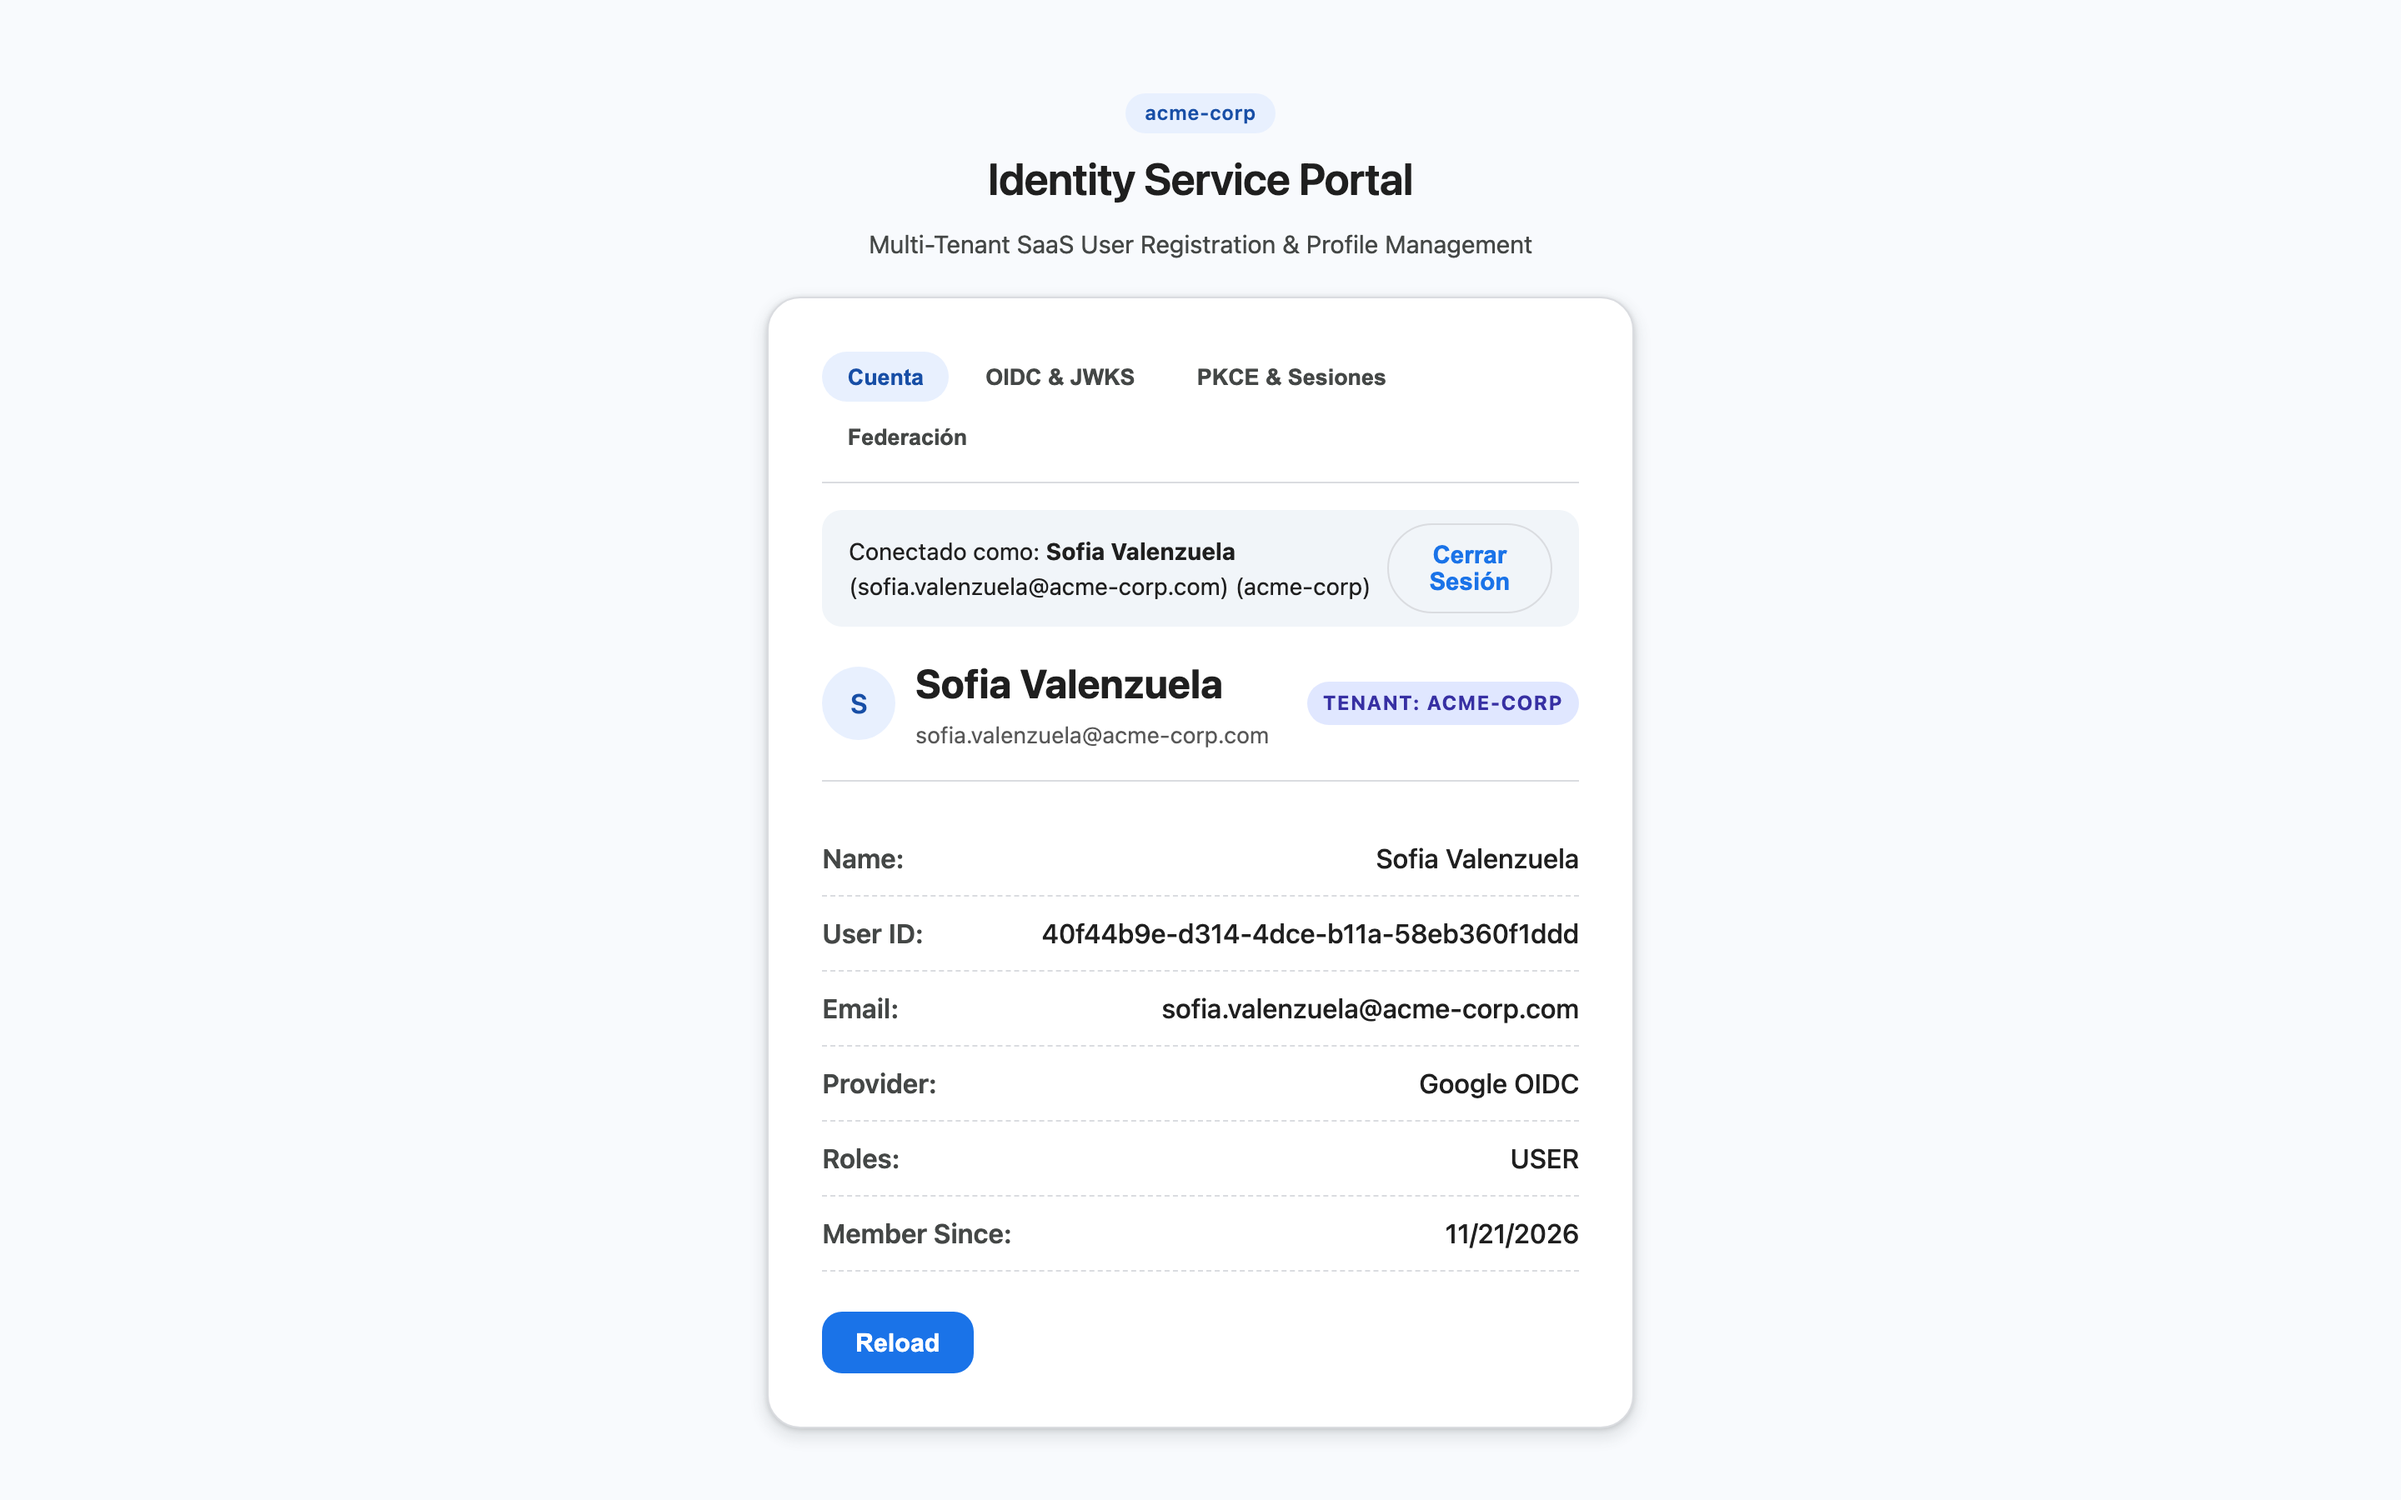
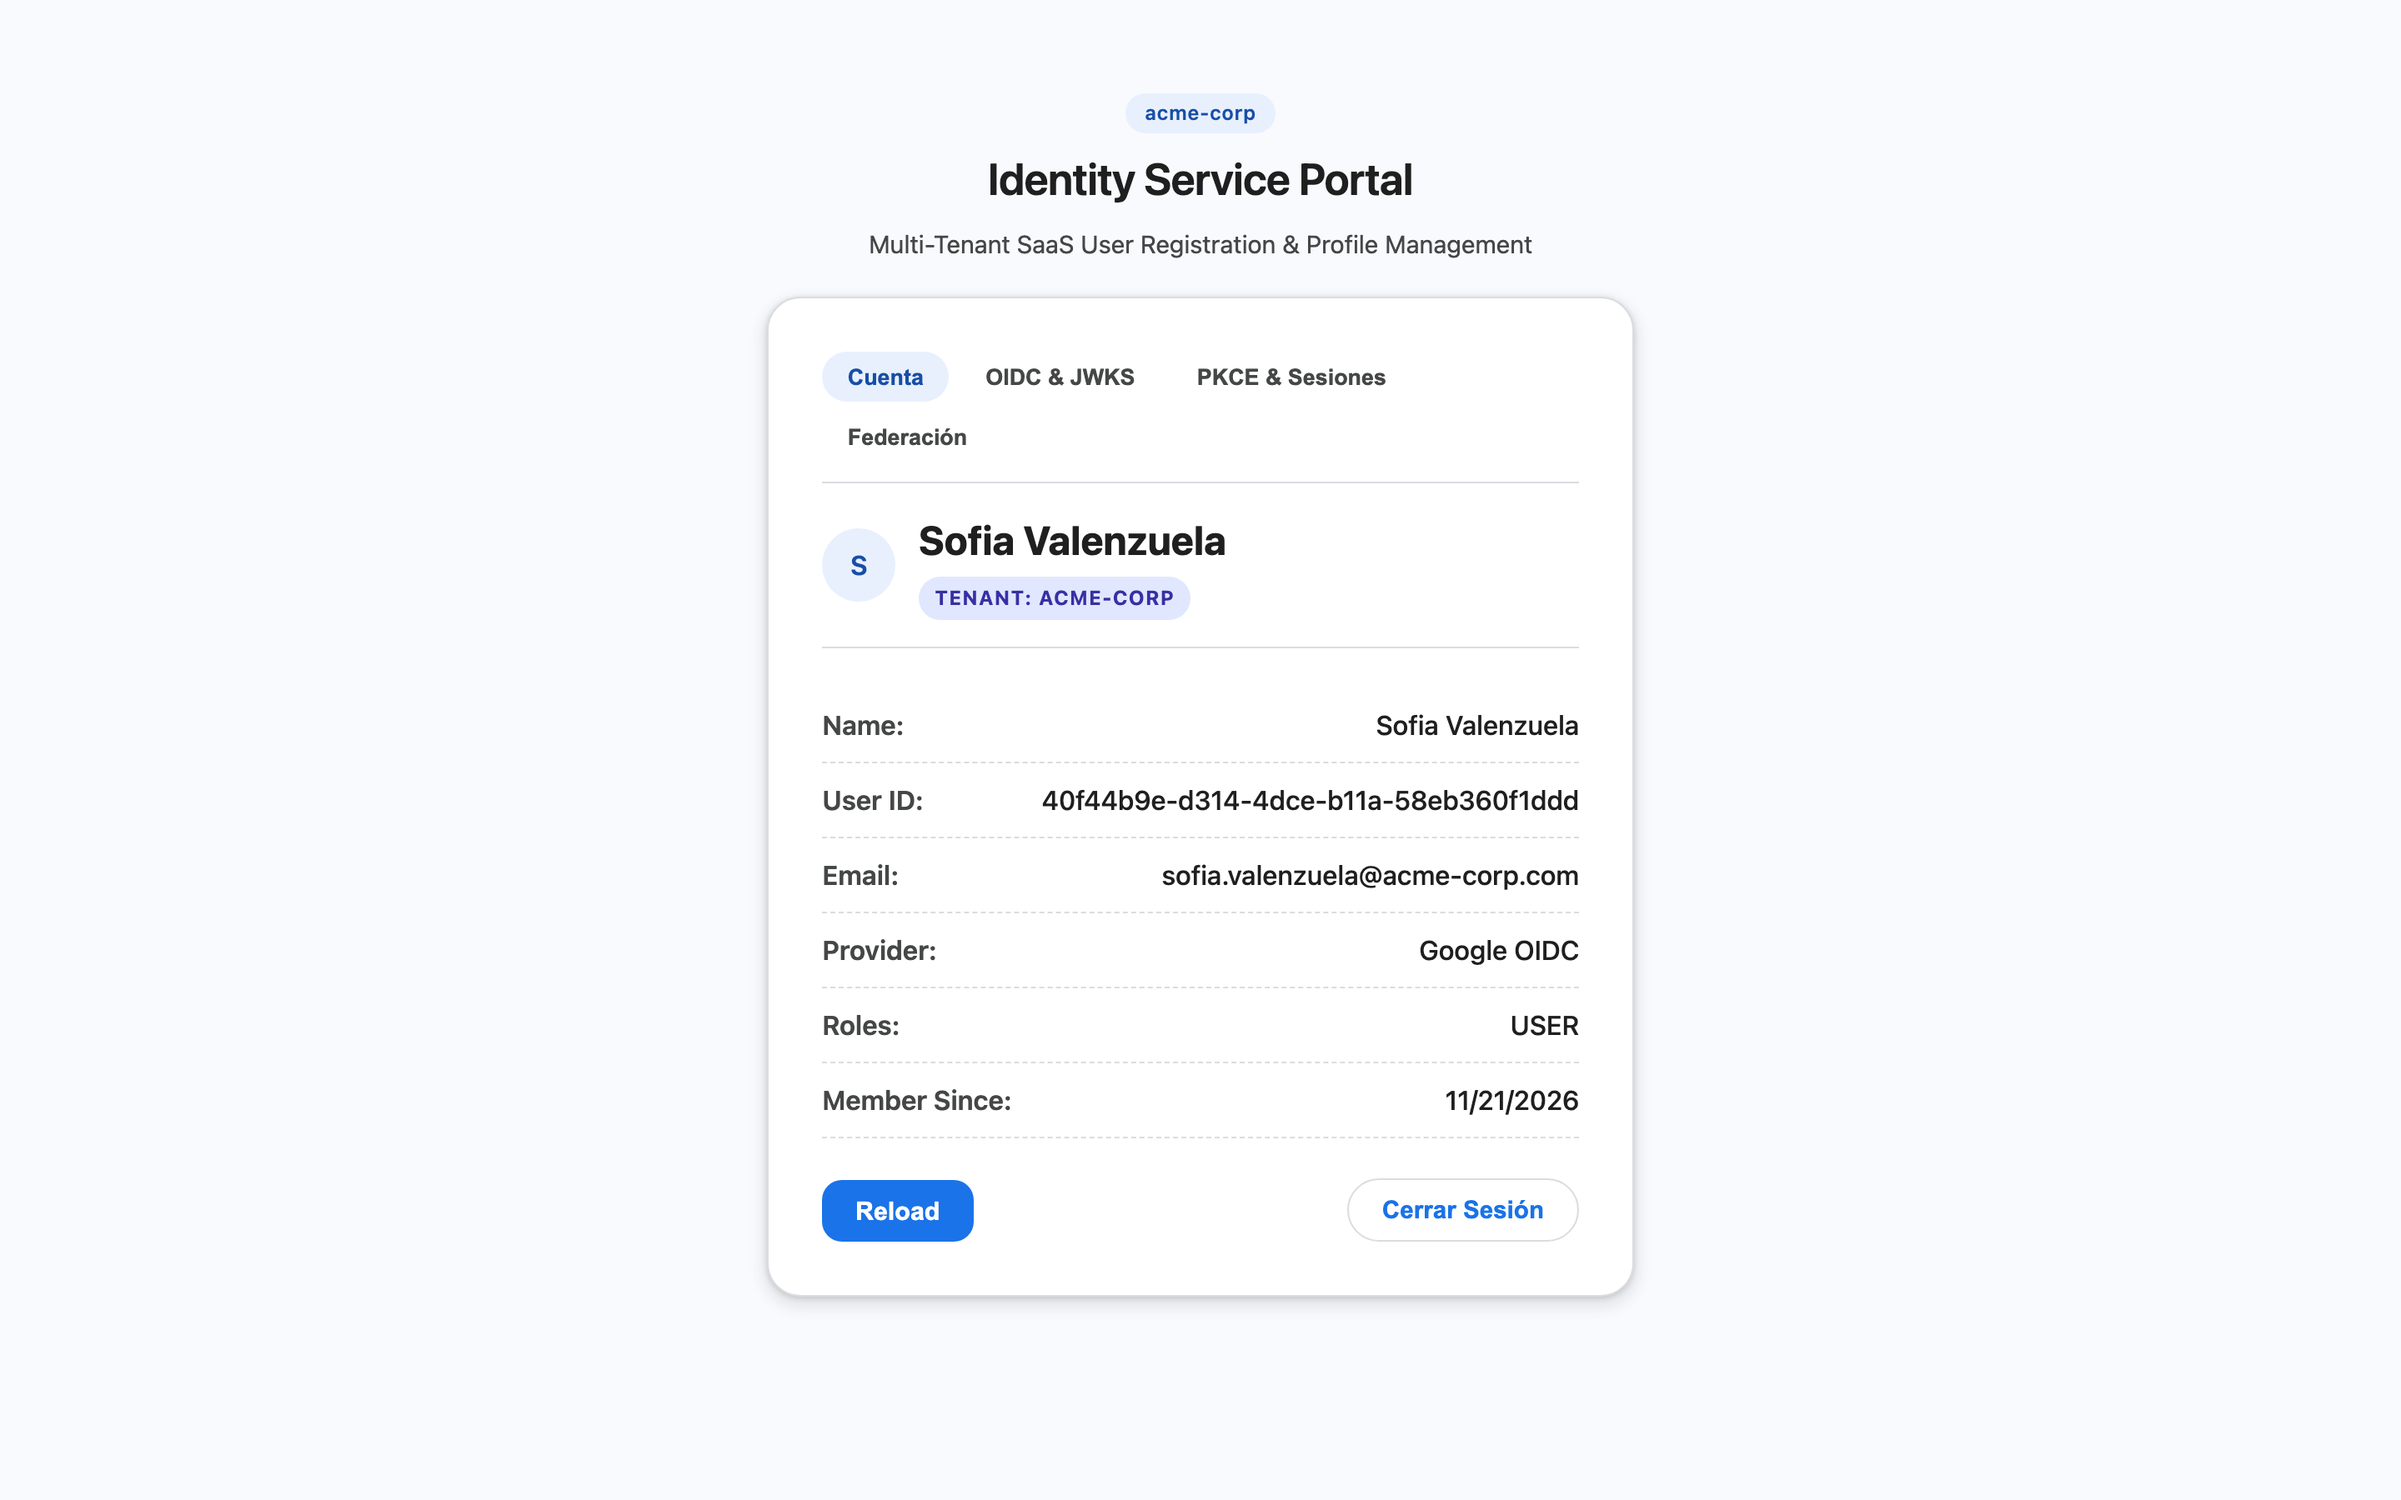
refactor(web): remove redundant session-toolbar and move logout button into UserProfileCard footer

diff --git a/interfaces/web/client/contexts/identity/ui/components/user_profile_card.tsx b/interfaces/web/client/contexts/identity/ui/components/user_profile_card.tsx
@@ -1,10 +1,12 @@
 import { useState, useEffect, useCallback } from 'react';
+import { M3Button } from '../../../../design-system/components/M3Primitives';
 import { AuthSession, UserProfile } from '../../domain/types';
 
 export interface UserProfileCardProps {
   fetchProfile: () => Promise<UserProfile>;
   initialProfile?: UserProfile;
   session?: Partial<AuthSession>;
+  onLogout?: () => void;
 }
 
 function formatProviderLabel(provider?: string): string | null {
@@ -18,7 +20,12 @@ function formatProviderLabel(provider?: string): string | null {
  * Componente visual de tarjeta de perfil de usuario contextualizada por Tenant.
  * Muestra información del usuario activo, identificador de organización y estados de carga/error.
  */
-export function UserProfileCard({ fetchProfile, initialProfile, session }: UserProfileCardProps) {
+export function UserProfileCard({
+  fetchProfile,
+  initialProfile,
+  session,
+  onLogout,
+}: UserProfileCardProps) {
   const [profile, setProfile] = useState<UserProfile | null>(initialProfile ?? null);
   const [loading, setLoading] = useState<boolean>(!initialProfile);
   const [error, setError] = useState<string | null>(null);
@@ -72,46 +79,48 @@ export function UserProfileCard({ fetchProfile, initialProfile, session }: UserP
 
   return (
     <article className="user-profile-card">
-      <header style={{ display: 'flex', alignItems: 'center', justifyContent: 'space-between', gap: '0.75rem' }}>
-        <div style={{ display: 'flex', alignItems: 'center', gap: '0.75rem' }}>
-          {avatarUrl ? (
-            <img
-              src={avatarUrl}
-              alt={displayName || profile.email}
-              referrerPolicy="no-referrer"
-              style={{
-                width: '44px',
-                height: '44px',
-                borderRadius: '999px',
-                objectFit: 'cover',
-              }}
-            />
-          ) : displayName ? (
-            <div
-              aria-hidden="true"
-              style={{
-                width: '44px',
-                height: '44px',
-                borderRadius: '999px',
-                display: 'flex',
-                alignItems: 'center',
-                justifyContent: 'center',
-                fontWeight: 600,
-                background: 'var(--md-sys-color-primary-container, #d3e3fd)',
-                color: 'var(--md-sys-color-on-primary-container, #041e49)',
-              }}
-            >
-              {displayName.slice(0, 1).toUpperCase()}
-            </div>
-          ) : null}
-          <div>
-            <h2 style={{ margin: 0 }}>{displayName || 'User Profile'}</h2>
-            {displayName && (
-              <span style={{ fontSize: '0.85rem', opacity: 0.75 }}>{profile.email}</span>
-            )}
+      <header
+        style={{
+          display: 'flex',
+          alignItems: 'center',
+          justifyContent: 'flex-start',
+          gap: '0.875rem',
+        }}
+      >
+        {avatarUrl ? (
+          <img
+            src={avatarUrl}
+            alt={displayName || profile.email}
+            referrerPolicy="no-referrer"
+            style={{
+              width: '44px',
+              height: '44px',
+              borderRadius: '999px',
+              objectFit: 'cover',
+            }}
+          />
+        ) : displayName ? (
+          <div
+            aria-hidden="true"
+            style={{
+              width: '44px',
+              height: '44px',
+              borderRadius: '999px',
+              display: 'flex',
+              alignItems: 'center',
+              justifyContent: 'center',
+              fontWeight: 600,
+              background: 'var(--md-sys-color-primary-container, #d3e3fd)',
+              color: 'var(--md-sys-color-on-primary-container, #041e49)',
+            }}
+          >
+            {displayName.slice(0, 1).toUpperCase()}
           </div>
+        ) : null}
+        <div style={{ display: 'flex', flexDirection: 'column', alignItems: 'flex-start', gap: '0.25rem' }}>
+          <h2 style={{ margin: 0 }}>{displayName || 'User Profile'}</h2>
+          <span className="badge-tenant">Tenant: {profile.tenantId}</span>
         </div>
-        <span className="badge-tenant">Tenant: {profile.tenantId}</span>
       </header>
       <section className="profile-details">
         <dl>
@@ -149,10 +158,15 @@ export function UserProfileCard({ fetchProfile, initialProfile, session }: UserP
           )}
         </dl>
       </section>
-      <footer>
+      <footer style={{ display: 'flex', alignItems: 'center', justifyContent: 'space-between', gap: '0.75rem' }}>
         <button type="button" onClick={loadData}>
           Reload
         </button>
+        {onLogout && (
+          <M3Button variant="outlined" onClick={onLogout}>
+            Cerrar Sesión
+          </M3Button>
+        )}
       </footer>
     </article>
   );

diff --git a/interfaces/web/client/contexts/auth/ui/AuthPortalView.tsx b/interfaces/web/client/contexts/auth/ui/AuthPortalView.tsx
@@ -2,7 +2,6 @@ import { useState } from 'react';
 import { AuthSession, UserProfile } from '../../identity/domain/types';
 import { RegisterForm } from '../../identity/ui/components/register_form';
 import { UserProfileCard } from '../../identity/ui/components/user_profile_card';
-import { M3Button } from '../../../design-system/components/M3Primitives';
 import { OidcDiscoveryPanel } from './OidcDiscoveryPanel';
 import { PkceAndSessionsPanel } from './PkceAndSessionsPanel';
 import { FederationPanel } from './FederationPanel';
@@ -58,18 +57,7 @@ export function AuthPortalView({
       {activeTab === 'account' && (
         <div>
           {session ? (
-            <div>
-              <div className="session-toolbar">
-                <span>
-                  Conectado como: <strong>{session.name || session.email}</strong>
-                  {session.name ? ` (${session.email})` : ''} ({session.tenantId})
-                </span>
-                <M3Button variant="outlined" onClick={onLogout}>
-                  Cerrar Sesión
-                </M3Button>
-              </div>
-              <UserProfileCard fetchProfile={fetchProfile} session={session} />
-            </div>
+            <UserProfileCard fetchProfile={fetchProfile} session={session} onLogout={onLogout} />
           ) : (
             <div>
               <h2 className="m3-section-title">Registro de Nuevo Usuario</h2>
